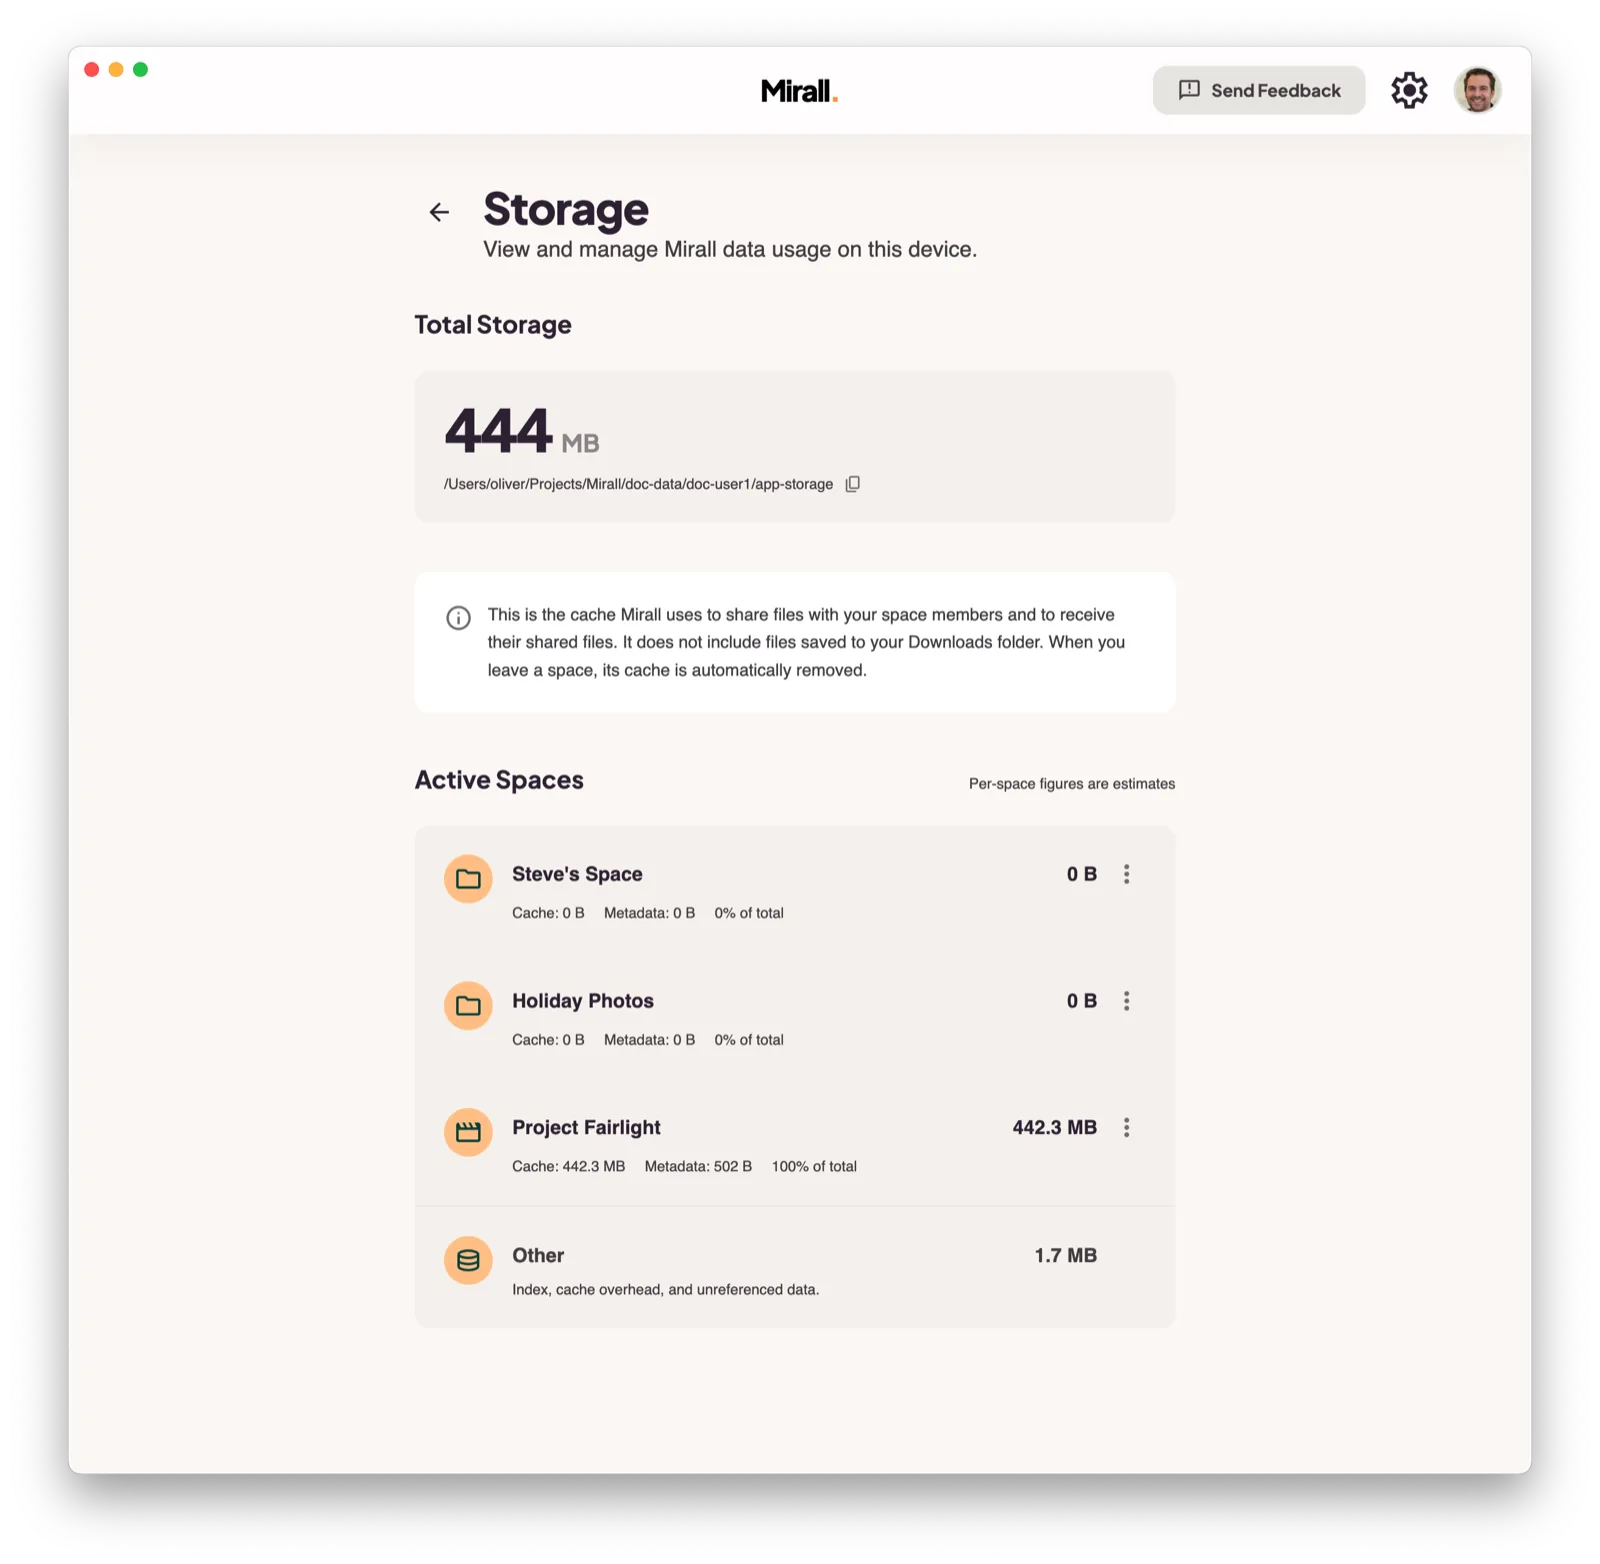
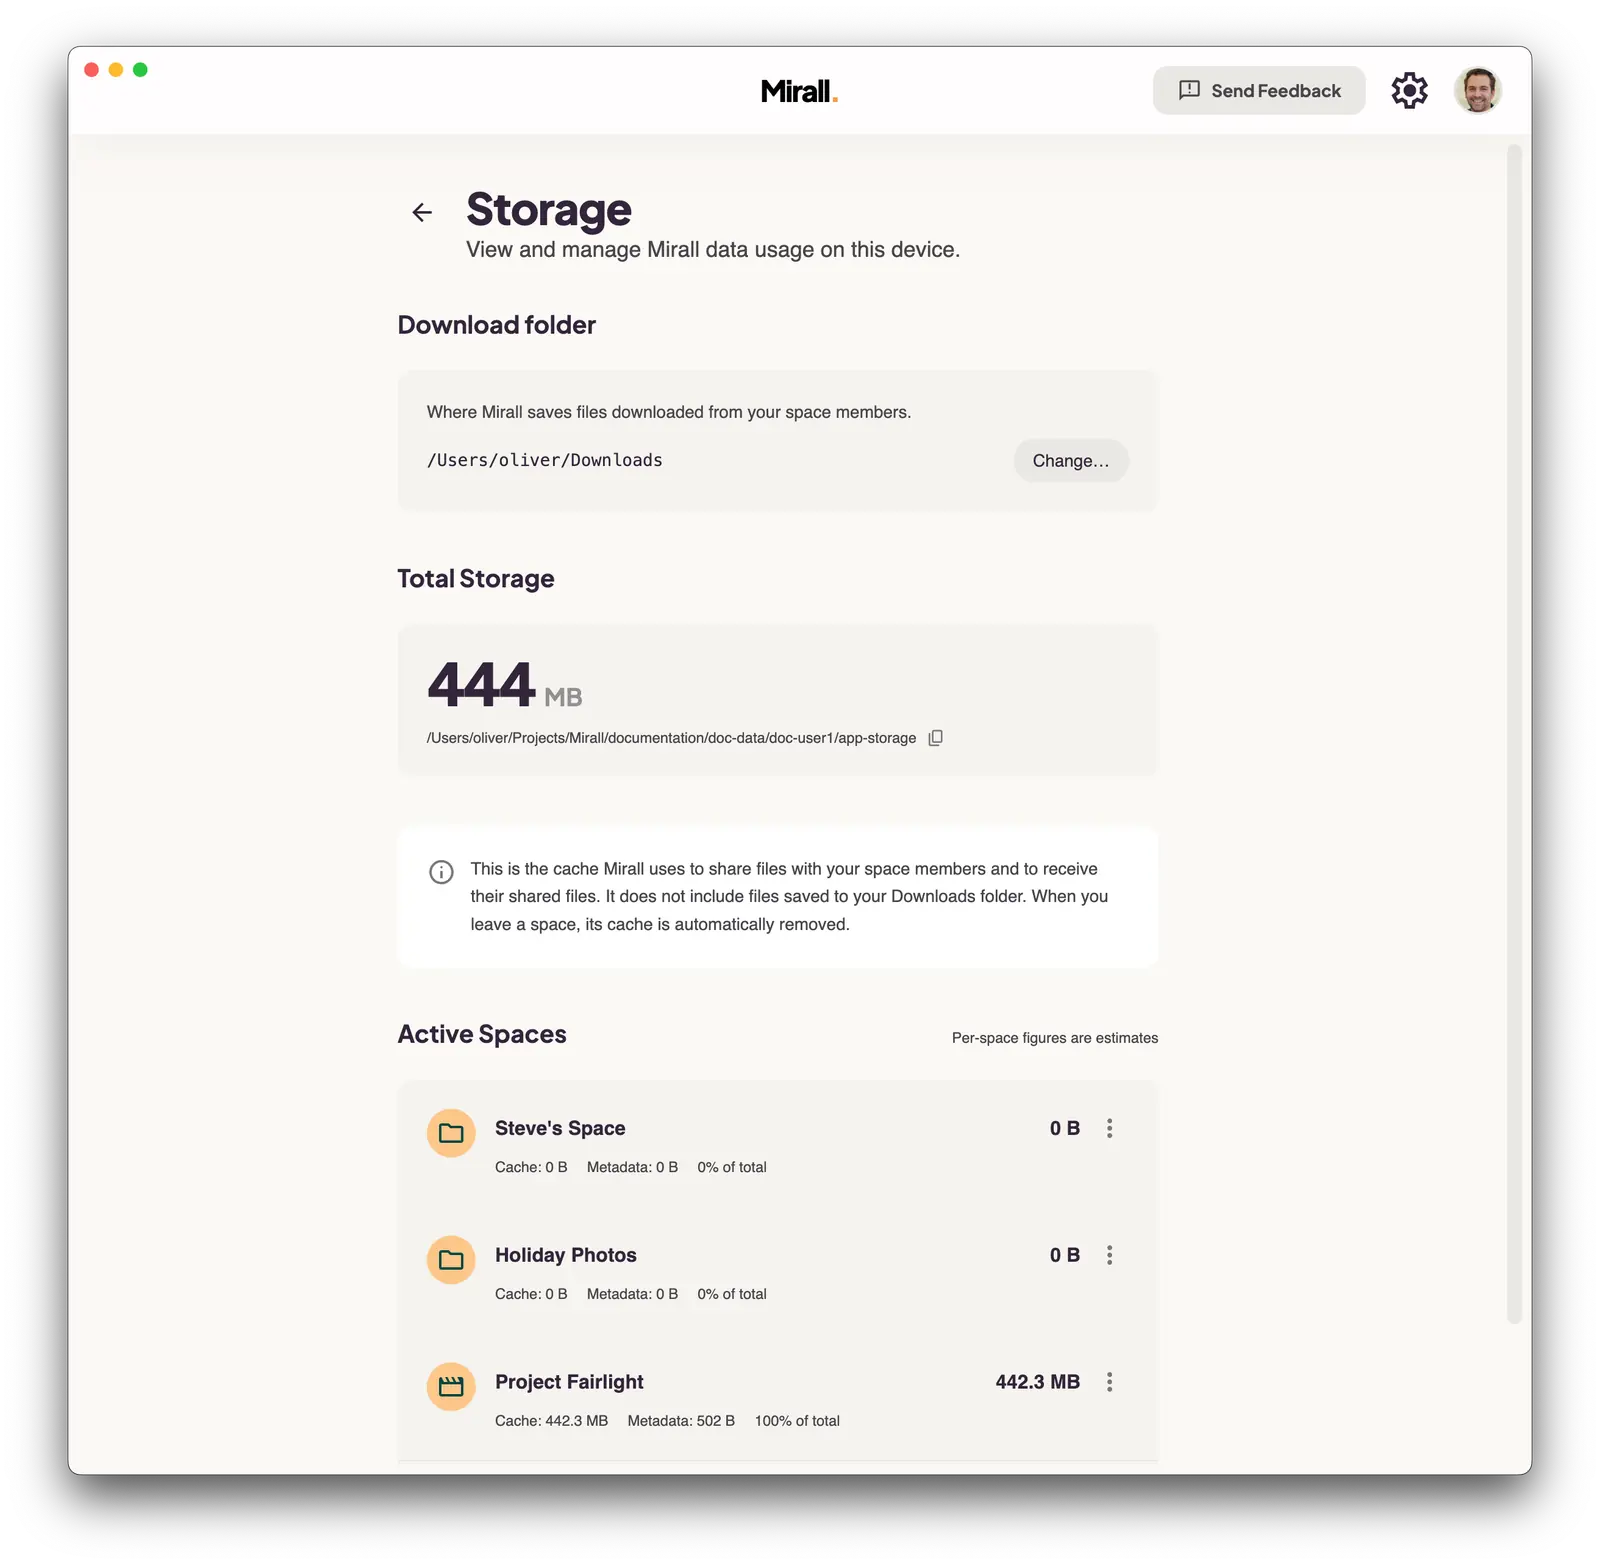
docs: update for app v1.3.0 and tighten mobile layout
- Replace Storage screenshot with the new Download folder + per-space More
  menu UI (1600x1565 webp, q=75, ~88 KB). Update its alt text and the
  matching height attribute in Docs.tsx so the intrinsic ratio matches.
- Rewrite the Storage description to cover the Download folder picker,
  per-space cache reclaim via the More menu, and per-space figures that
  account for peer-downloaded files.
- Note atomic .partial -> rename behaviour in the Transfers description.
- Add "download interrupted because the owner removed the file" to the
  list of per-event Notifications toggles.
- Add a "No longer shared" entry to the file-status reference.
- Mobile: reduce CTA section padding (px-4 sm:px-8 outer, p-8 sm:p-12
  md:p-16 inner) so the headline and copy get more inner width on small
  screens. Centre the Hero download button on mobile/tablet
  (justify-center lg:justify-start), keeping the desktop two-column
  layout unchanged.

diff --git a/src/components/CTA.tsx b/src/components/CTA.tsx
@@ -6,8 +6,8 @@ export default function CTA() {
 
   return (
     <section className="py-32">
-      <div className="max-w-7xl mx-auto px-8">
-        <div className="hero-gradient rounded-xl p-16 text-center text-on-primary ambient-shadow relative overflow-hidden">
+      <div className="max-w-7xl mx-auto px-4 sm:px-8">
+        <div className="hero-gradient rounded-xl p-8 sm:p-12 md:p-16 text-center text-on-primary ambient-shadow relative overflow-hidden">
           <div className="absolute inset-0 opacity-10">
             <svg className="w-full h-full" preserveAspectRatio="none" viewBox="0 0 100 100">
               <path d="M0 100 C 20 0 50 0 100 100 Z" fill="currentColor" />

diff --git a/src/components/Hero.tsx b/src/components/Hero.tsx
@@ -25,7 +25,7 @@ export default function Hero() {
           <p className="text-sm text-on-surface-variant/70 mb-8 -mt-6">
             {t('hero.industries')}
           </p>
-          <div className="flex flex-wrap gap-4">
+          <div className="flex flex-wrap justify-center lg:justify-start gap-4">
             <Link to="/download" className="hero-gradient text-on-primary px-8 py-4 rounded-lg font-bold flex items-center gap-3 ambient-shadow hover:scale-105 transition-transform">
               <Download size={24} weight="regular" />
               {t('hero.cta')}

diff --git a/src/pages/Docs.tsx b/src/pages/Docs.tsx
@@ -203,7 +203,7 @@ export default function Docs() {
                 <p className="text-on-surface-variant leading-relaxed">{t('docs.settings.storage.description')}</p>
               </div>
 
-              <Screenshot src="/docs-storage.webp" alt={t('docs.settings.storage.screenshotAlt')} width={1600} height={1564} />
+              <Screenshot src="/docs-storage.webp" alt={t('docs.settings.storage.screenshotAlt')} width={1600} height={1565} />
 
               <div className="bg-surface-container-low rounded-xl p-8 mb-8 mt-10">
                 <h3 className="text-xl font-bold mb-3">{t('docs.settings.whatsNew.title')}</h3>